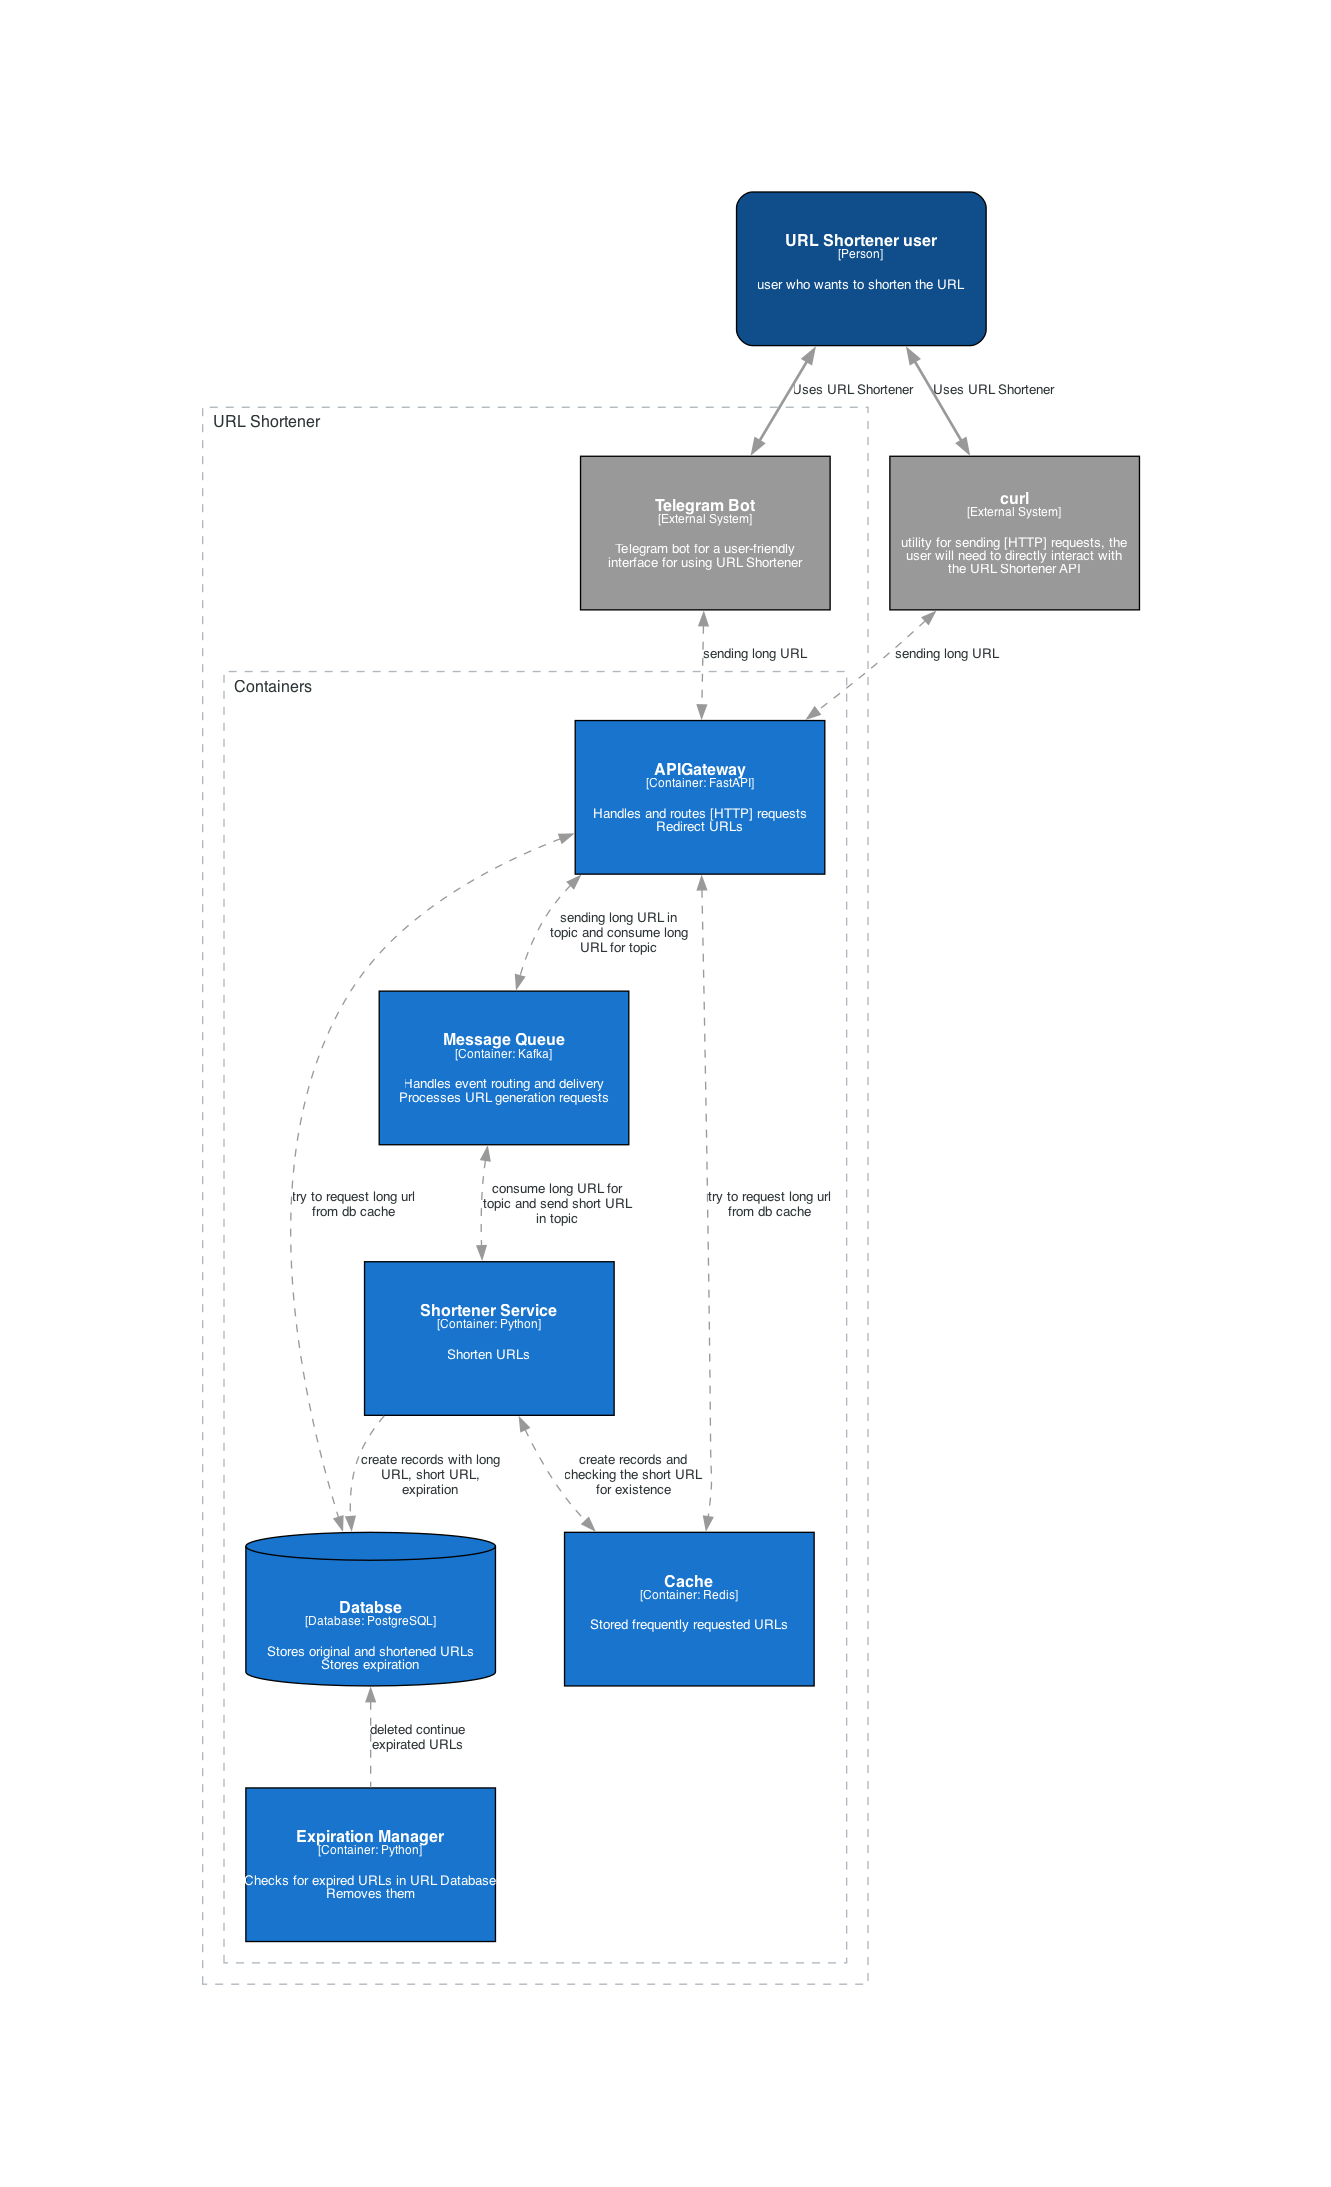
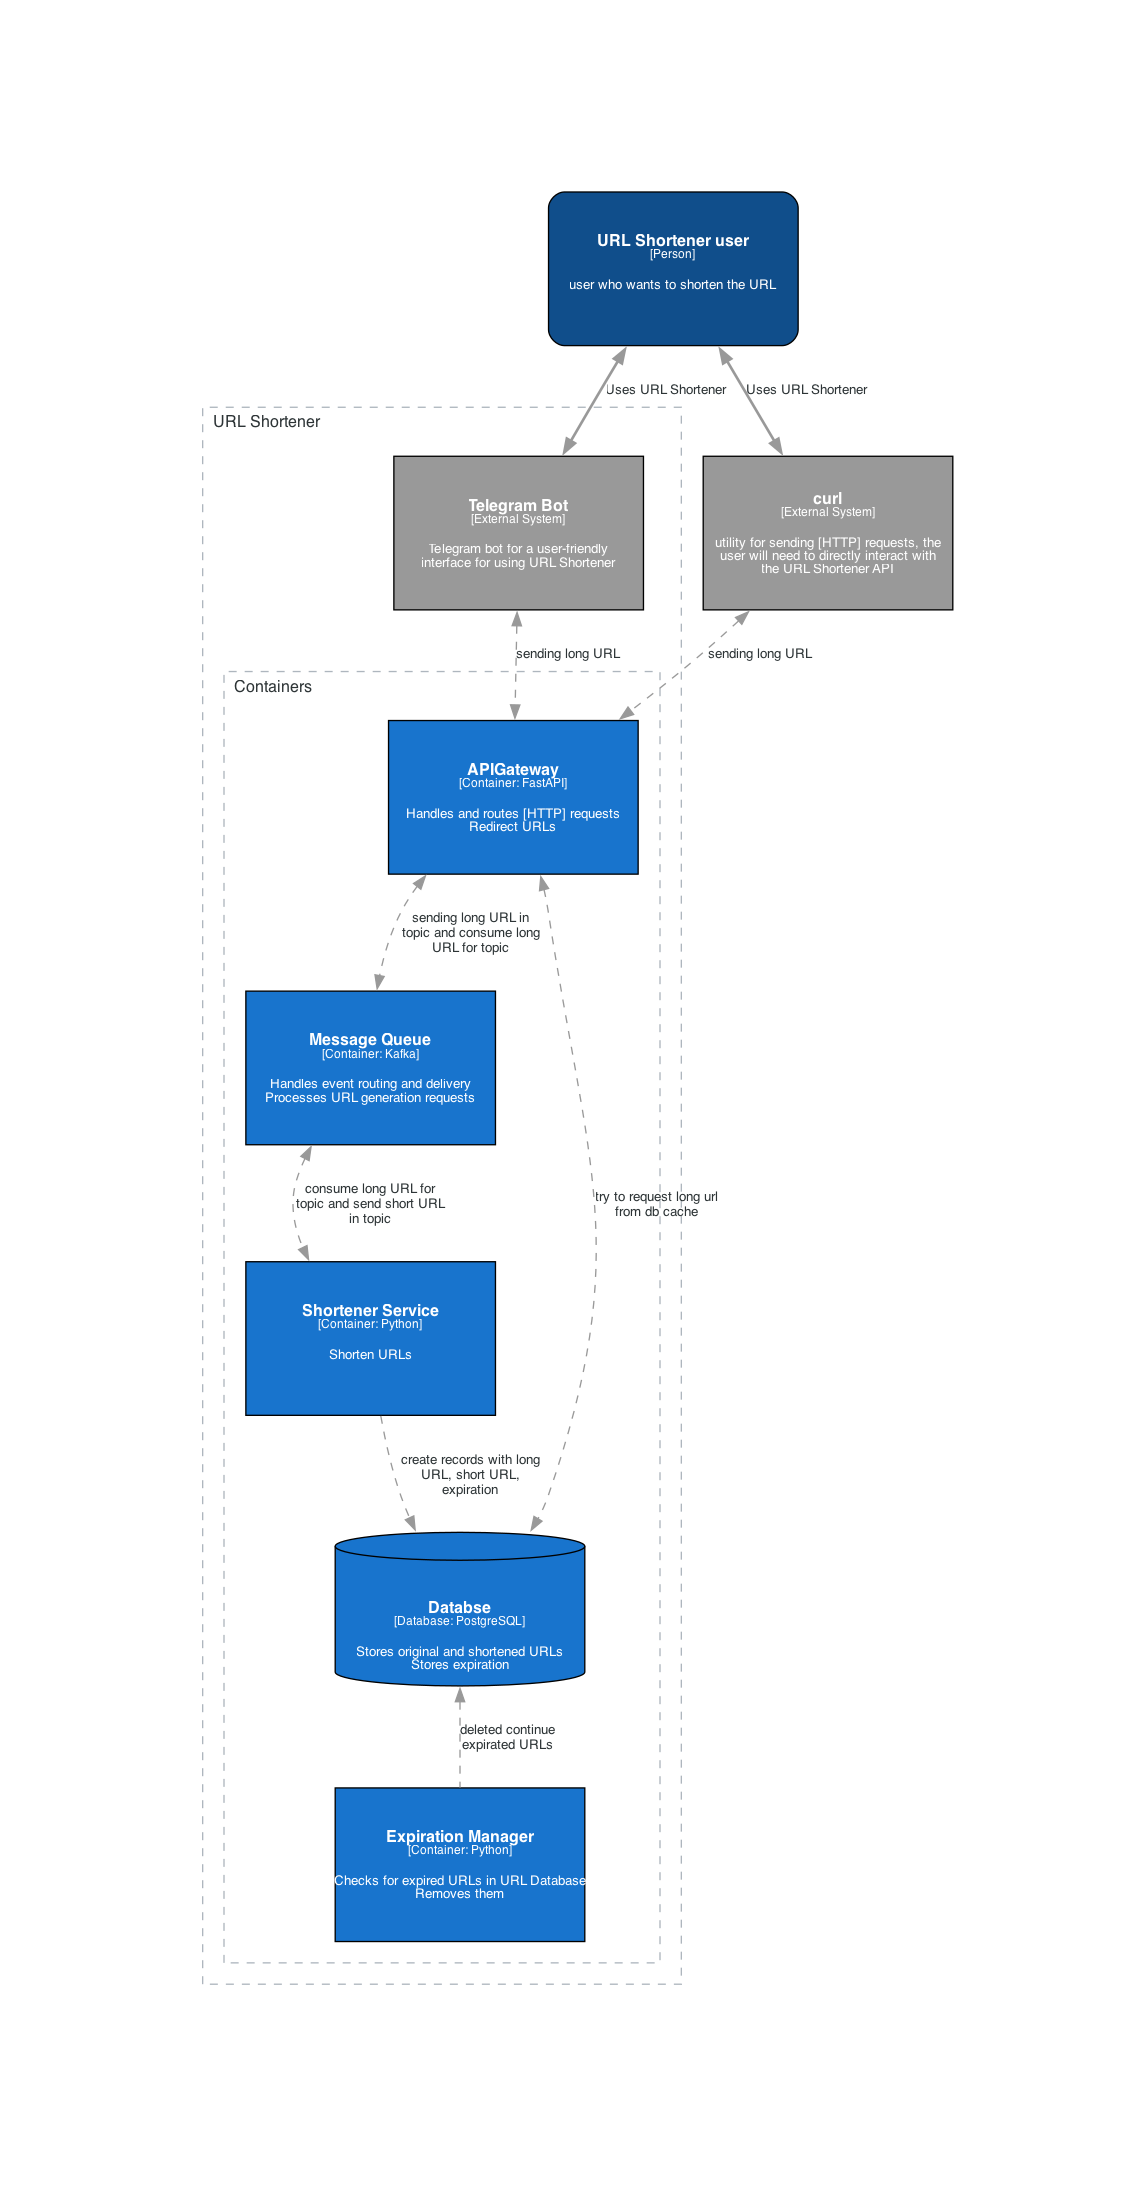
completed

diff --git a/architecture/architecture/c4-model.py b/architecture/architecture/c4-model.py
@@ -61,6 +61,12 @@ with Diagram(filename=file_path, show=False, direction='TB', graph_attr=graph_at
                 description='Stores original and shortened URLs\nStores expiration',
             )
 
+            cache = Container(
+                name='Cache',
+                technology='Redis',
+                description='Stored frequently requested URLs',
+            )
+
             expiration_manager = Container(
                 name='Expiration Manager',
                 technology='Python',
@@ -87,6 +93,8 @@ with Diagram(filename=file_path, show=False, direction='TB', graph_attr=graph_at
 
         api >> Relationship('try to request long url from db cache') << database
 
+        api >> Relationship('try to request long url from db cache') << cache
+
         (
             broker
             >> Relationship('consume long URL for topic and send short URL in topic')
@@ -99,4 +107,10 @@ with Diagram(filename=file_path, show=False, direction='TB', graph_attr=graph_at
             >> database
             << Relationship('deleted continue expirated URLs')
             << expiration_manager
+        )
+
+        (
+            shortener_service
+            >> Relationship('create records and checking the short URL for existence')
+            << cache
         )
